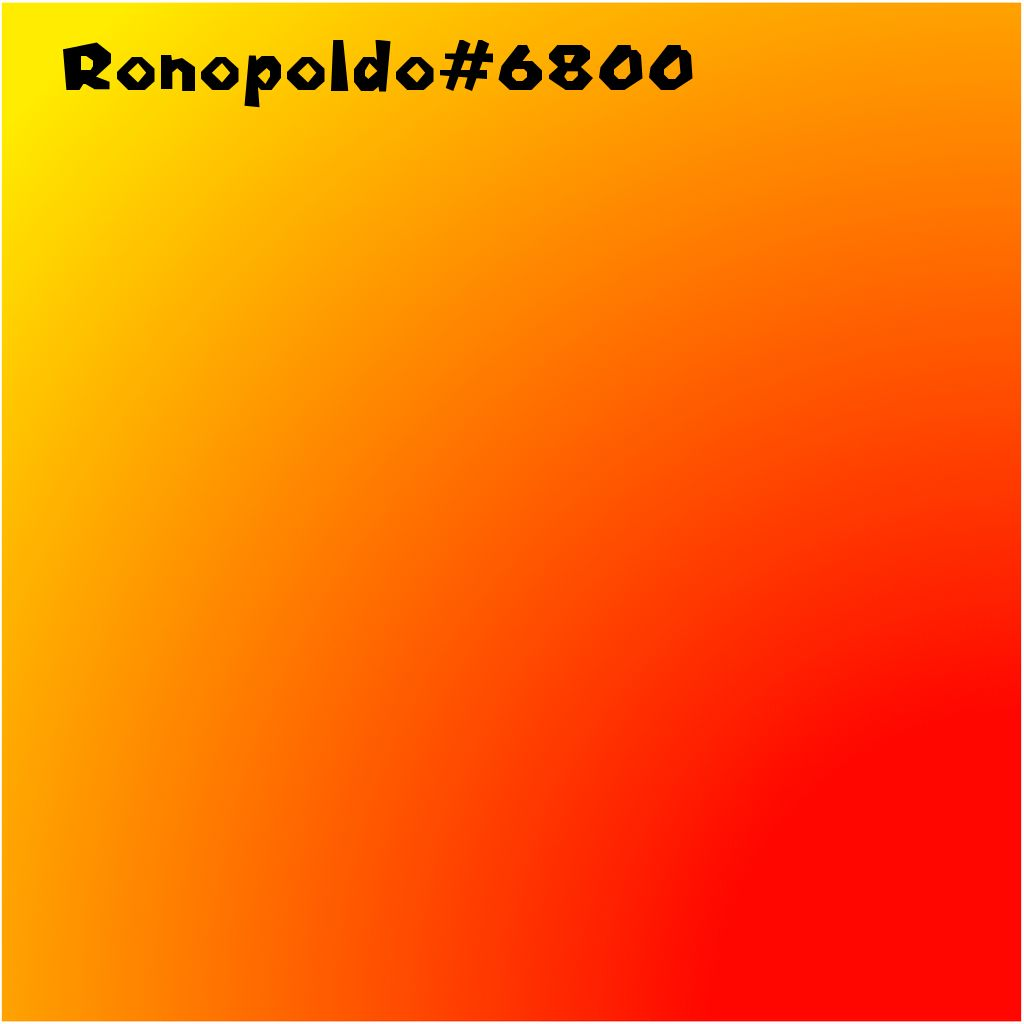
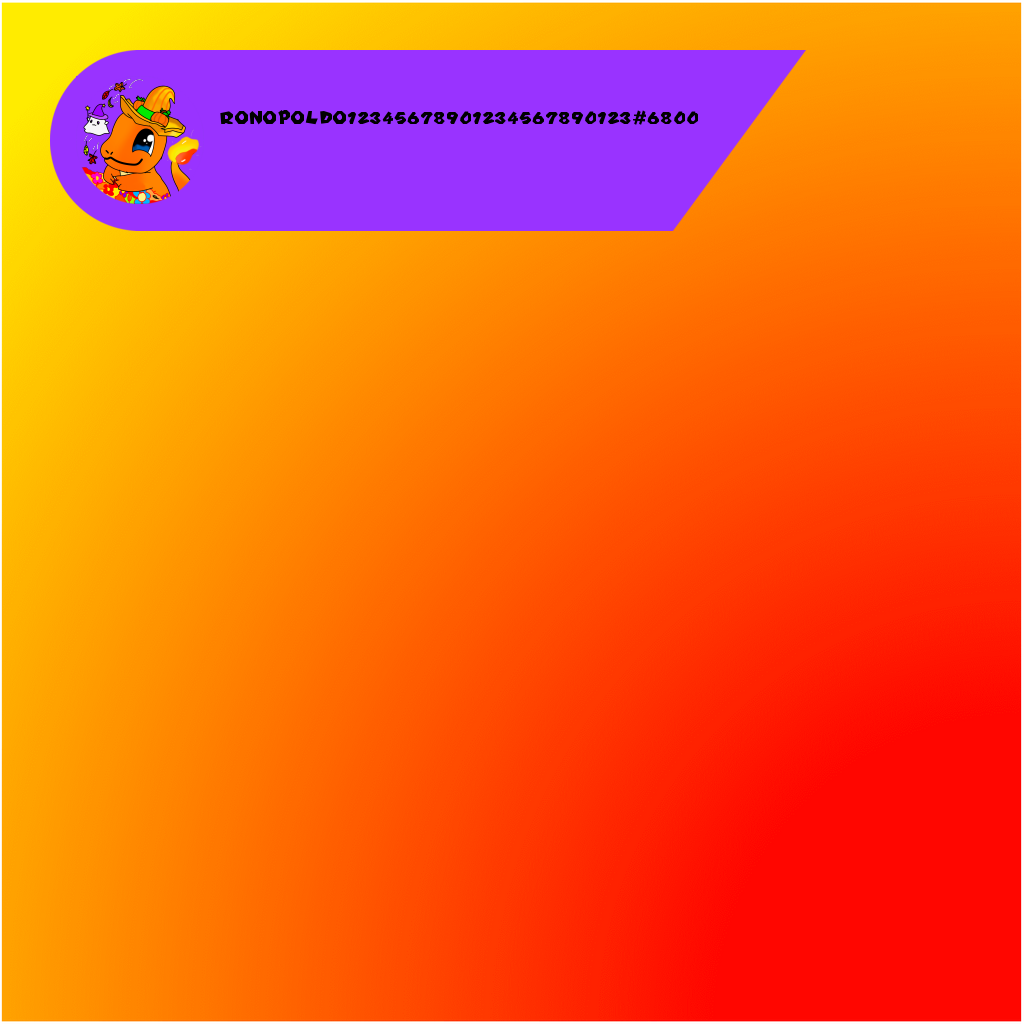
Рабочая база! (автар, фон, карточка и тег)

diff --git a/index.js b/index.js
@@ -80,15 +80,22 @@ if (msg.content.toLowerCase().startsWith('/card'))
 
 
 
-
+let fontsize = 70
+let nameLength = User.tag.length
 var request = require('request').defaults({ encoding: null });
  request.get(User.avatarURL({ format: "png"}, {size: 128}), function (err, res, body) {
 
 
-ctx.font = '80px "Main"'
+  console.log('Адоптируем...')
+  fontsize = 70 - (nameLength/3)*4
+console.log('Адоптация:' + fontsize)
+
+
+ctx.font = fontsize + 'px "Main"'
 ctx.fillText(User.tag, 50, 50)
-const out = fs.createWriteStream('temp.png')
-const stream = canvas.createPNGStream()
+console.log('Тег: ' + User.tag)
+let out = fs.createWriteStream(pingedUser + 'temp.png')
+let stream = canvas.createPNGStream()
 stream.pipe(out)
 out.on('finish', () =>  { console.log('The PNG file was created.') 
 
@@ -99,14 +106,19 @@ out.on('finish', () =>  { console.log('The PNG file was created.')
 
 
           console.log('456')
-            sharp('./Images/Background/2.png')
+          sharp('./Images/Background/2.png')
             .resize(1024, 1024)
-            .jpeg()
-            .composite([{ input: '124.png', top: 40, left: 10}])
+            .composite([
+              { input: './Images/Borders/5.png', top: 50, left: 50},
+              { input: body, top: 76, left: 76},
+              { input: "./Images/circler.png", top: 76, left: 76},
+              { input: pingedUser + 'temp.png', top: 74, left: 170}])
             // .composite([{ input: 'temp.png', top: 40, left: 10}])
-            .toFile(User.id + '.png', function(err) {
+            .toFile(pingedUser + '.png', function(err) {
               console.log("error: ", err)
               msg.channel.send({files: [pingedUser + '.png']});
+              ctx.clearRect(0, 0, canvas.width, canvas.height);
+              fs.unlinkSync(pingedUser + "temp.png")
               });
 
 
